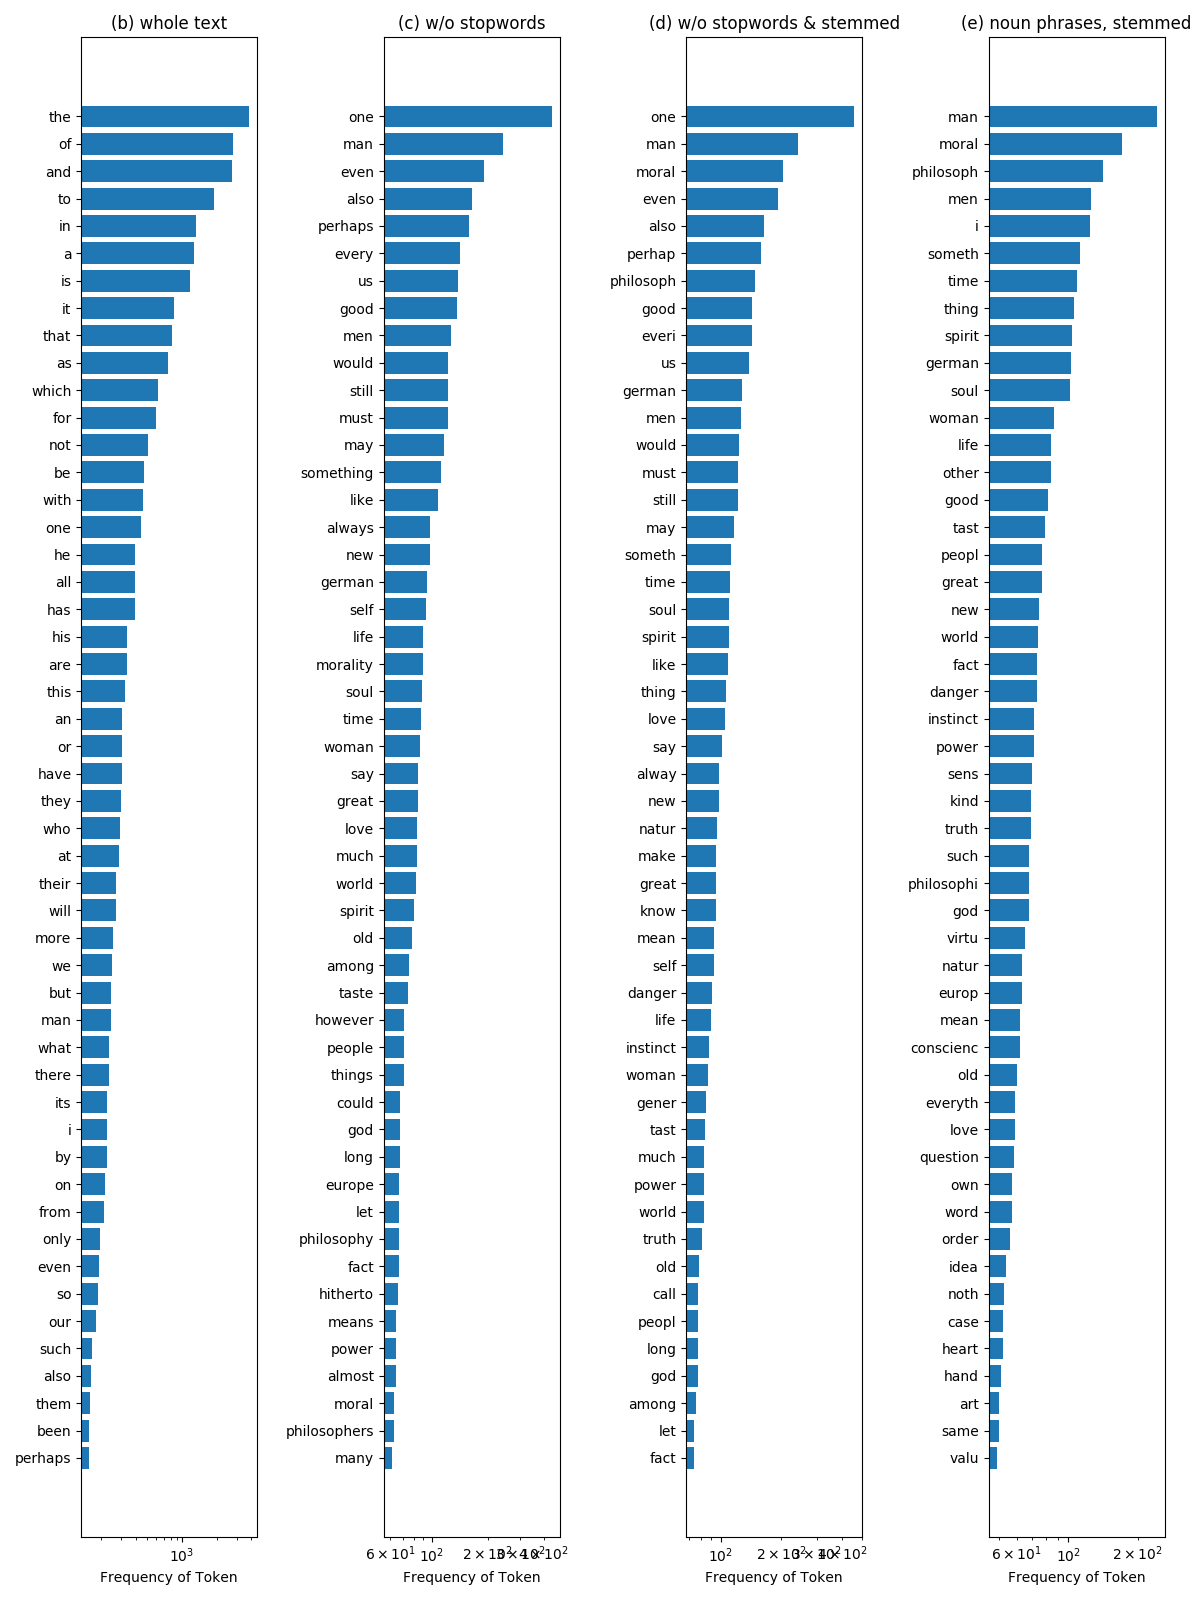
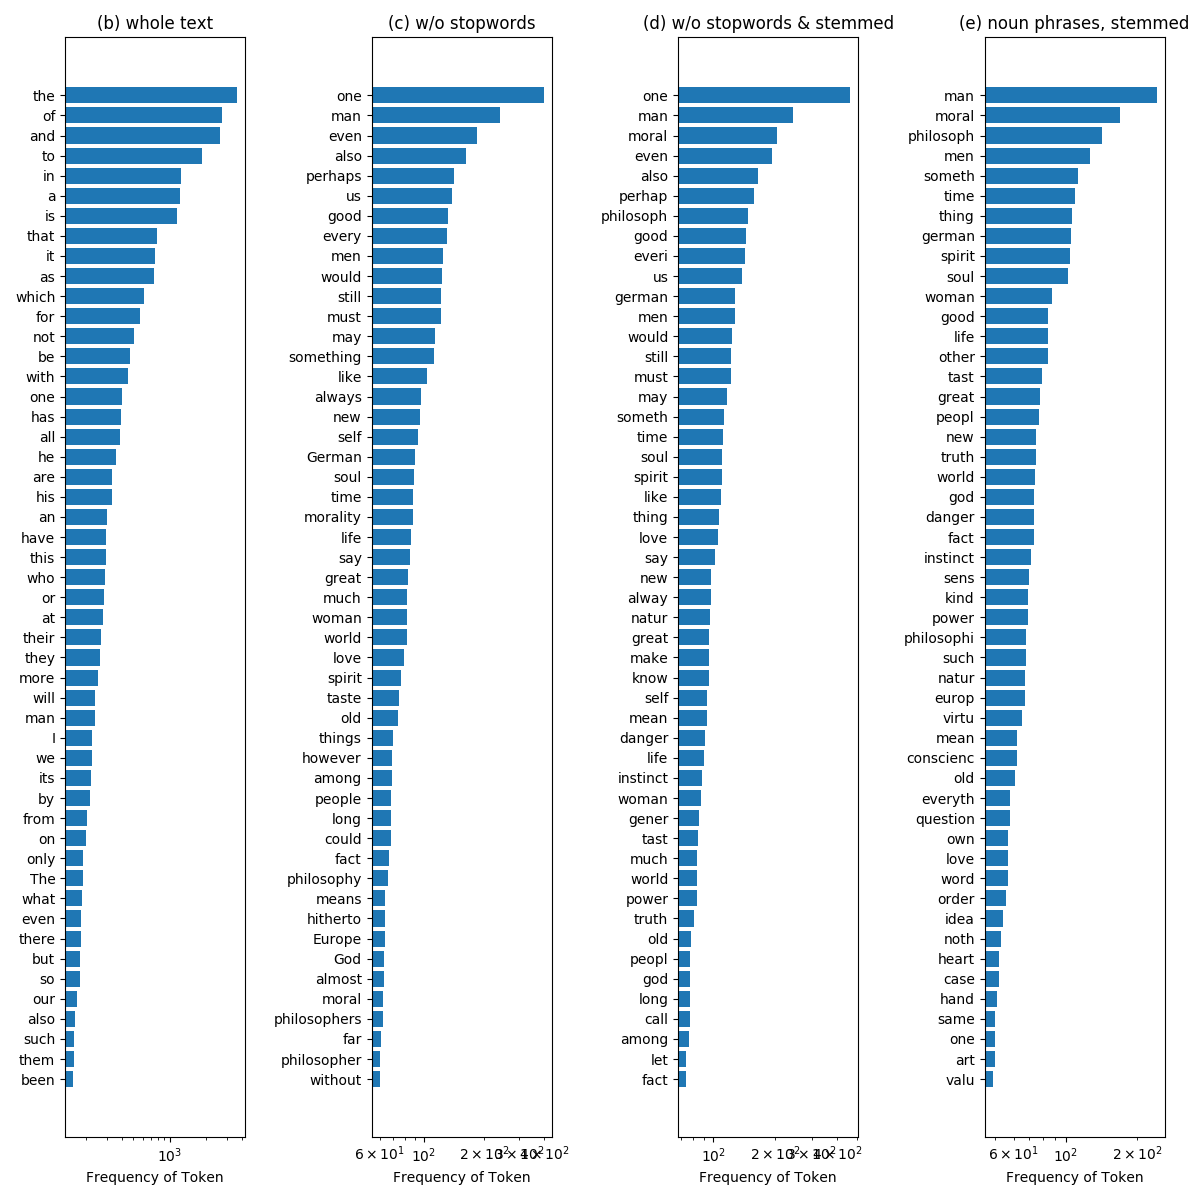
before the last changes

diff --git a/text_mining.py b/text_mining.py
@@ -19,7 +19,6 @@ def noun_phrases(plain_text):
     pt = plain_text
     space = '--'  # had problems with pos tags otherwise
     pt = pt.translate(str.maketrans('[]', space))
-    #pt = pt.lower()  # try if tags different when lowercase first "SUPPOSING" YES! SUPPOSING - NN, supposing - vbg
     sentences = sent_tokenize(pt)
 
     # pos for sentences
@@ -128,7 +127,7 @@ if __name__ == '__main__':
     plain_words_lst = re.sub("[^\w]", " ", plain_text).split()
 
     space = '                                '  # 32 spaces
-    clean_text = plain_text.translate(str.maketrans(string.punctuation, space)) #.lower()
+    clean_text = plain_text.translate(str.maketrans(string.punctuation, space))
     clean_words_lst = re.sub("[^\w]", " ", clean_text).split()
 
     # (b) tokenize text
@@ -140,7 +139,9 @@ if __name__ == '__main__':
     # lowercase to also remove title and starting words
     stop_words = set(stopwords.words('english'))
 
-    filtered_text = [w for w in clean_words_lst if w not in stop_words]
+    # filter the text and only keep words that are not stopwords.
+    # stopwords are all lower case so also lowercase word when lookup
+    filtered_text = [w for w in clean_words_lst if w.lower() not in stop_words]
     filtered_text = ' '.join(filtered_text)
     tokens_filtered = nltk.word_tokenize(filtered_text)
     tokens_filtered = pd.Series(tokens_filtered).value_counts()
@@ -149,7 +150,7 @@ if __name__ == '__main__':
 
     ps = PorterStemmer()
 
-    filtered_text = [w for w in clean_words_lst if w not in stop_words]
+    filtered_text = [w for w in clean_words_lst if w.lower() not in stop_words]
     stemmed_text = [ps.stem(w) for w in filtered_text]
     stemmed_text = ' '.join(stemmed_text)
     tokens_stemmed = nltk.word_tokenize(stemmed_text)
@@ -177,14 +178,17 @@ if __name__ == '__main__':
 
     fig1 = bar_plot(tokens, tokens_filtered, tokens_stemmed, tokens_np)
     fig2 = zipfian_plot(tokens, tokens_filtered, tokens_stemmed, tokens_np)
-    # fig1.savefig('tokens.png')
-    # fig2.savefig('zipfian_graph.png')
+    fig1.savefig('tokens.png')
+    fig2.savefig('zipfian_graph.png')
 
     plt.show()
 
     # (f) faulty POS tagging
     sentence = 'hitherto prevalent'
     sentence = 'WHOSE DUTY IS WAKEFULNESS ITSELF, are the heirs of all the strength which the struggle against this error has fostered.'
+    sentence = 'WHAT really is this "Will to Truth" in us?'
+    sentence = 'The fundamental belief of metaphysicians is THE BELIEF IN ANTITHESES OF VALUES.'
+    sentence = '"DISONS DONC HARDIMENT QUE LA RELIGION EST UN PRODUIT DE L\'HOMME NORMAL, QUE L\'HOMME EST LE PLUS DANS LE VRAI...'
 
     sentence_lc = to_lowercase_words(sentence)
     # Actual: [('hitherto', 'NN'), ('prevalent', 'NN')]
